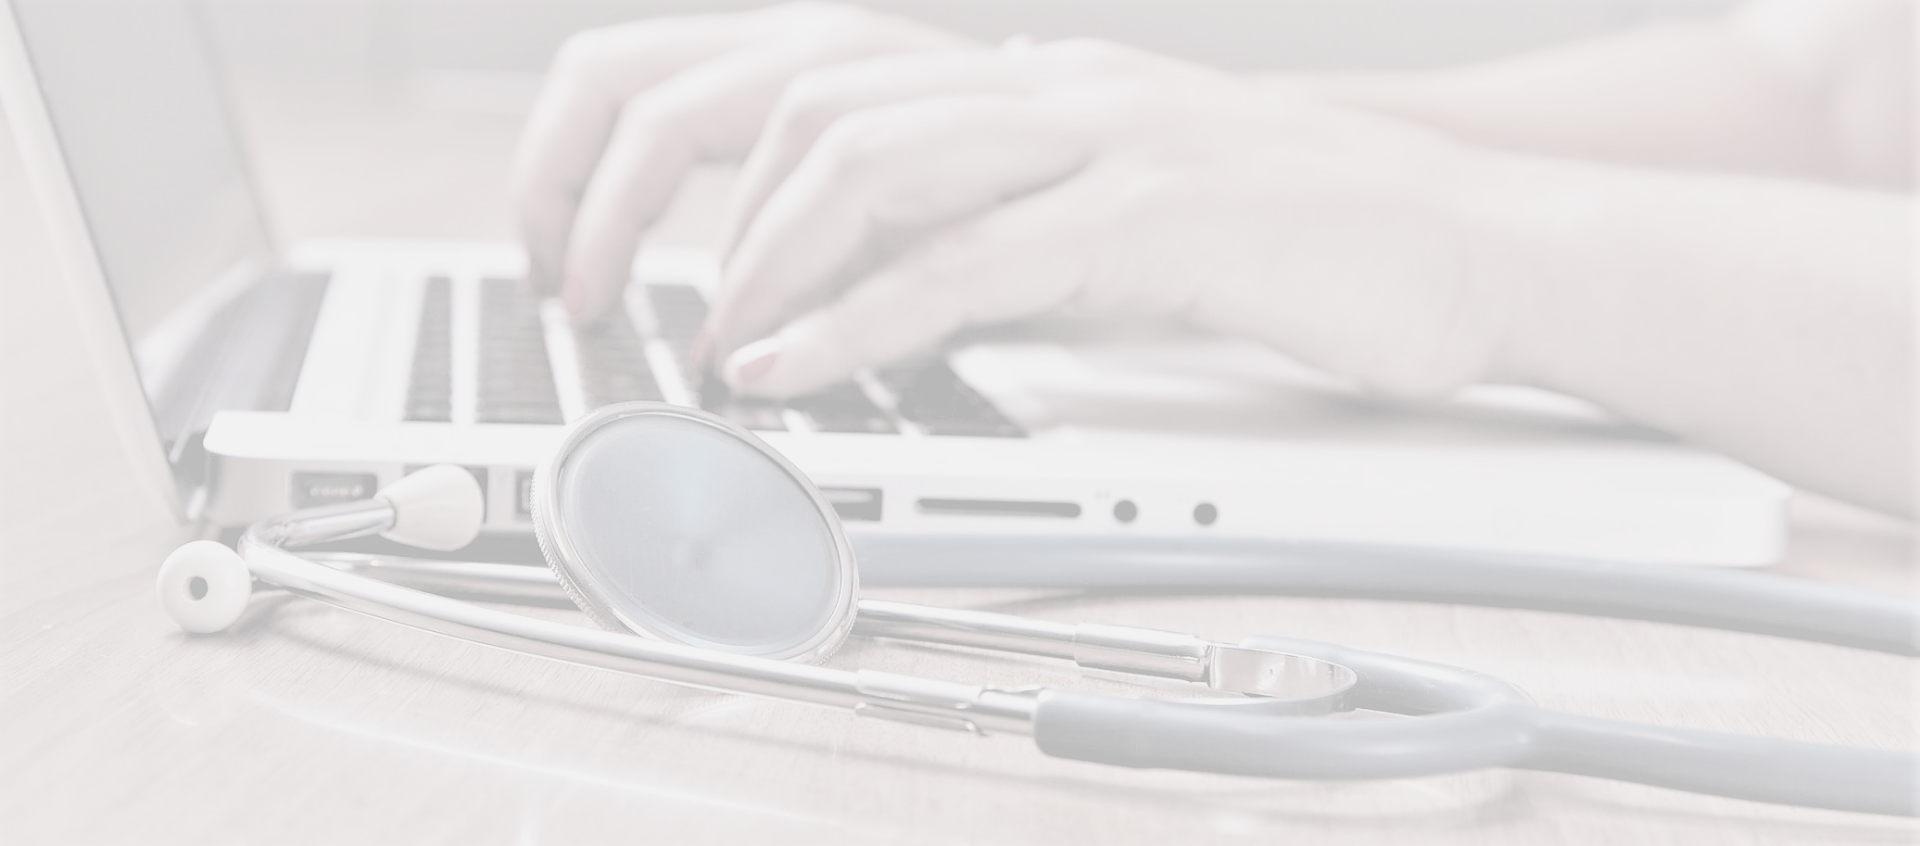
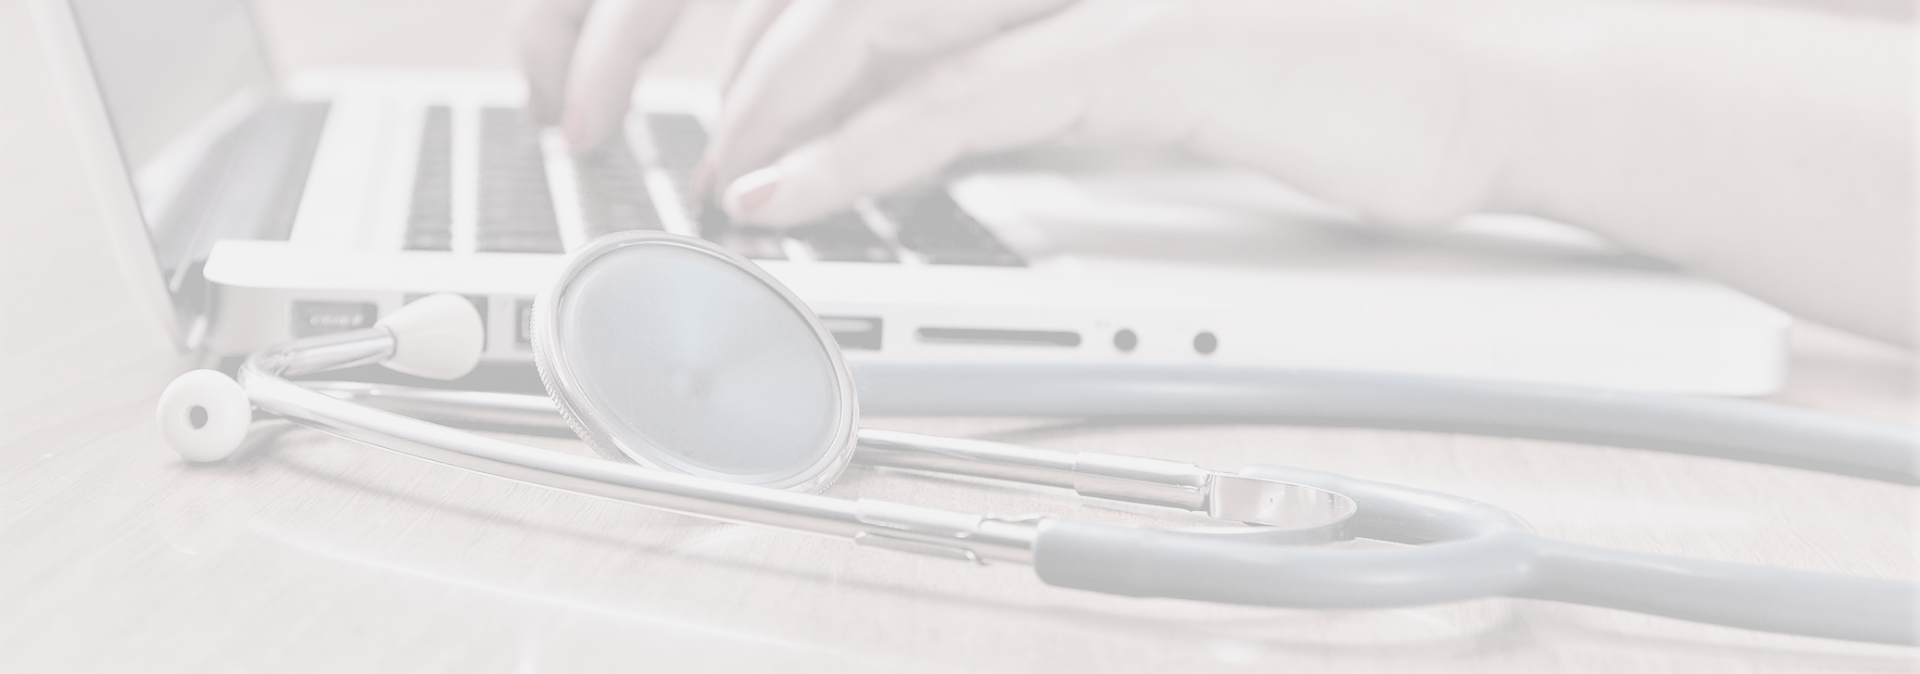
about page functioning

diff --git a/pages/about.html b/pages/about.html
@@ -24,12 +24,11 @@
   <!-- Modal -->
   <div class="modal fade" id="myModal" role="dialog">
     <div class="modal-dialog">
-
       <!-- Modal content-->
       <div class="modal-content">
         <div class="modal-header">
           <button type="button" class="close" data-dismiss="modal">&times;</button>
-          <h4 class="modal-title">Why Pacific Northwest X-Ray, Inc.?</h4>
+          <h4 class="modal-title">Why Pacific Northwest X-Ray, Inc?</h4>
         </div>
         <div class="modal-body">
           <p>X-Ray and Radiology? You are at the source! Here you will find hundreds
@@ -85,9 +84,123 @@
           <button type="button" class="btn btn-info btn-lg" data-toggle="modal" data-target="#myModal">Why Us</button>
         </div>
       </div>
-
     </section>
-    
+
+    <section id="about-content">
+      <br><br>
+      <h2>Services</h2><br><br>
+      <div class="icons container">
+        <div class="row">
+          <div class="col-sm-4">
+            <img src="../images/icon1.png" alt="Innovative Product" height="90" width="75">
+            <h5>Innovative Product</h5>
+            <p class="icon">We provide cutting-edge Name Brand product choices with complete and high quality product information.  Innovative product is updated daily as old technology becomes obsolete. </p>
+          </div><br><br>
+          <div class="col-sm-4">
+            <img src="../images/icon2.png" alt="Competitive Pricing" height="90" width="100">
+            <h5>Competitive Pricing</h5>
+            <p class="icon">We pass our bulk purchase savings onto you for the lowest market price on products. Our customers find that we offer a better value than their small local dealer can.</p>
+          </div><br><br>
+          <div class="col-sm-4">
+            <img src="../images/icon3.png" alt="Web Hosting & Security" height="90" width="85">
+            <h5>Web Hosting & Security</h5>
+            <p class="icon">We provide co-location and web serving for other businesses. All systems are secure and UPS power protected, by auto-starting and transferring generation systems </p>
+          </div>
+        </div>
+      </div>
+    <br><br><br>
+ 
+    <div class="more-info">
+      <blockquote class="blockquote">
+        <p class="mb-0">Wow, I'm really glad I finally found your site!</p><br>
+        <cite>-Satisfied Customer</cite>
+      </blockquote>
+    <br><br><br>
+  <div class="container">
+    <h2>Learn More</h2>
+    <p class="learnMore">Click below to explore and learn more information about our services at Pacific Northwest X-Ray, Inc. For more questions, please contact us from 8am-5pm(PST) Monday-Friday at <a href="tel:1-800-827-9729" class="nostyle about">1-800-827-9729</a>.</p><br>
+    <div class="panel-group" id="accordion">
+      <div class="panel panel-default">
+        <div class="panel-heading">
+          <h4 class="panel-title">
+            <a class="nostyle" data-toggle="collapse" data-parent="#accordion" href="#collapse1">Our Inventory</a>
+          </h4>
+        </div>
+        <div id="collapse1" class="panel-collapse collapse in">
+          <div class="panel-body">Most visitors have no idea just how large this site is. Simply put - it's hard to say from day to day, but we run around 900+ pages with over 6800 active stock numbers in our database server.Larger cleaner graphics, more detailed product specifications, those are the hallmarks of pnwx.com. We provide you with more Name Brand product choices with more complete product information. Our data entry staff are working from different parts of the country inputting the most up to date information that the manufacturers provide. When discrepancies are found, they are updated immediately by our data entry personnel. When customers call asking questions and/or requesting information that was not previously available and accessible on the website - we research the answers for that customer and add that information to the website right away! That way you are assured the most complete product information
+          available!
+        </div>
+        </div>
+      </div>
+      <div class="panel panel-default">
+        <div class="panel-heading">
+          <h4 class="panel-title">
+            <a class="nostyle" data-toggle="collapse" data-parent="#accordion" href="#collapse2">Web Site Hosting</a>
+          </h4>
+        </div>
+        <div id="collapse2" class="panel-collapse collapse">
+          <div class="panel-body">We are our own Internet Service Provider. We also provide co-location and web serving for other businesses both in and out of the Radiology Community. Our own servers sit on racks in our climate controlled network room right here in our head office in the East Portland Oregon Metro Area. All systems are UPS power protected, with the UPS systems backed up by auto-starting and transferring generation systems. This allows us to be 100% in control of our site and keep it up and running with excellence! It also keeps us from being limited to a certain sized site - or being forced to use web
+          authoring programs like Front Page, as so many other sites are hosted in the Radiology industry. If we need additional
+          server power or features, we just slide another server into our racks and it's ready to serve. Furthermore, we are not
+          forced to use a seriously overloaded server at some bulk hosting company that also hosts adult and other questionable
+          sites that are then filtered or blocked by a lot of ISP's to protect their customers from the objectional content.
+          Without all these problems, our sites remain fast, responsive and available to you, our customers, 24/7 for all your
+          needs, at any time that is the most convenient!<br>We can host your website on our servers. We specialize in radiology related websites. If you are a radiology
+          manufacturer, we can work with you to host your site free of charge in exchange for our being able to market your
+          products on our websites. Please contact our <a href="mailto:noc@pnwx.com" alt="noc@pnwx.com">Network Operations Center</a> for more information.
+        </div>
+        </div>
+      </div>
+      <div class="panel panel-default">
+        <div class="panel-heading">
+          <h4 class="panel-title">
+            <a class="nostyle" data-toggle="collapse" data-parent="#accordion" href="#collapse3">Pricing</a>
+          </h4>
+        </div>
+        <div id="collapse3" class="panel-collapse collapse">
+          <div class="panel-body">All products that we can price, are priced and posted on our website. If the product you are looking at does not show a
+          price, it means that manufacturer has asked us not to price it on the site. You will need to contact the sales
+          department for your price. Our pricing is kept in databases and is updated as soon as we receive information about any
+          changes from manufacturers. Please contact our <a href="mailto:Sales@pnwx.com" alt="Sales@pnwx.com">sales department</a> for questions on pricing.
+        </div>
+        </div>
+      </div>
+      <div class="panel panel-default">
+        <div class="panel-heading">
+          <h4 class="panel-title">
+            <a class="nostyle" data-toggle="collapse" data-parent="#accordion" href="#collapse4">Customer Quantity Disounts</a>
+          </h4>
+        </div>
+        <div id="collapse4" class="panel-collapse collapse">
+          <div class="panel-body">If you need large quantities of a product, pnwx.com can offer you some of the best quantity discounts. Again, because we
+          purchase much more than most local dealers, we are able to pass that savings on to you. With large quantities, these
+          savings can really add up! Contact our <a href="mailto:Sales@pnwx.com" alt="Sales@pnwx.com">sales department</a> for more information on quantity discounts that you may qualify
+          for. They are also available at 800-827-X-Ray.
+          </div>
+        </div>
+      </div>
+      <div class="panel panel-default">
+        <div class="panel-heading">
+          <h4 class="panel-title">
+            <a class="nostyle" data-toggle="collapse" data-parent="#accordion" href="#collapse5">Security</a>
+          </h4>
+        </div>
+        <div id="collapse5" class="panel-collapse collapse">
+          <div class="panel-body">Because we own and operate our own network, when you send e-mail or fill out forms on our site - they are secure! Your
+          personal information is not sitting around on some overloaded server at your local dealer's Internet Service Provider,
+          waiting on them to dial up and download it. We safeguard all sensitive information with the strongest encryption
+          available and make that information decryptable only by the employees who needs access to that infomation to process
+          your order!
+          </div>
+        </div>
+      </div>
+  </div>
+  </div>
+<br><br>
+
+
+    </div>
+    </section>
            
 
     <footer class="footer">
@@ -145,8 +258,7 @@
 
 <!-- Optional JavaScript -->
 <!-- jQuery first, then Popper.js, then Bootstrap JS -->
-    <script src="https://code.jquery.com/jquery-3.3.1.slim.min.js"
-      integrity="sha384-q8i/X+965DzO0rT7abK41JStQIAqVgRVzpbzo5smXKp4YfRvH+8abtTE1Pi6jizo" crossorigin="anonymous"></script>
+    <script src="https://ajax.googleapis.com/ajax/libs/jquery/3.1.1/jquery.min.js"></script> -->
     <script src="https://cdnjs.cloudflare.com/ajax/libs/popper.js/1.14.6/umd/popper.min.js"
       integrity="sha384-wHAiFfRlMFy6i5SRaxvfOCifBUQy1xHdJ/yoi7FRNXMRBu5WHdZYu1hA6ZOblgut" crossorigin="anonymous"></script>
     <script src="https://stackpath.bootstrapcdn.com/bootstrap/4.2.1/js/bootstrap.min.js"

diff --git a/style.css b/style.css
@@ -152,61 +152,129 @@ table {
 
 /* pages styling */
 .home-pages {
-    height: 60vh;
+    height: 50vh;
     background-image: url(images/jumbopages.png);
     background-position: center top;
     background-size:cover;
+    border-bottom: 1px solid lightgrey;
 }
 
 section.home-pages div.title {
   position: absolute;  
-  color: white;
+  color: rgb(56, 56, 56);
   font-weight: bold;
-  top: 25%;
+  top: 20%;
   text-align: center;
   width: 100%;
   padding: 0;
 }
 
 div.title h1 {
-  font-size: 5rem;
+  font-size: 6rem;
   text-shadow: 2px 2px #5eafcc;
 }
 
 div.title button {
-  box-shadow: 1px 1px 1px darkgrey;
-  color: #36aed8;
+  box-shadow: 1px 1px 1px #36aed8;
+  border: white;
+  color: rgb(56, 56, 56);
+  padding-top: 4px;
+  padding-bottom: 4px;
+  padding-right: 10px;
+  padding-left: 10px;
+
 }
 
 div.title button:hover {
   color: #36aed8;
   background-color: white;
+  box-shadow: 3px 3px 3px #36aed8;
 }
 
 
-
-
-/* window styling */
-
-div#aboutWindow {
-  background-color: teal;
-
-}
-
-div.hiddenWindow{
-  display: none;
-}
-
-div.showWindow {
-  position: absolute;
-  background-color: black;
-  color: white;
-  overflow: hidden;
-}
-
-.modal-title {
+/* about section */
+#about-content {
   text-align: center;
 }
+
+div.icons {
+  width: 65%;
+}
+
+#about-content h2 {
+  font-size: 2.5em;
+}
+
+#about-content img {
+  margin-bottom: 20px;
+}
+
+#about-content div.col-sm-4 {
+  font-size: .8em;
+}
+
+#about-content p.icon {
+display:inline-block;
+}
+
+div#accordion {
+  margin-left: auto;
+  margin-right: auto;
+  font-size: .6em;
+  width: 40vw;
+} 
+
+p.learnMore {
+  width: 50vw;
+  margin-left: auto;
+  margin-right: auto;
+  font-size: 1.2em;
+}
+
+div.panel-body {
+  font-size: 1.6em;
+}
+
+div.panel-default {
+  text-align: left;
+}
+
+#about-content a.nostyle {
+  color: #36aed8;
+}
+
+div.panel-heading {
+  background-color: aliceblue;
+  border: 1px solid lightgrey;
+  padding: 10px;
+  padding-top: 15px;
+}
+
+/* blockquote styling */
+blockquote {
+  background: #f9f9f9;
+  border-left: 10px solid #36aed8;
+  margin: 1.5em 10px;
+  padding: 0.5em 10px;
+  quotes: "\201C""\201D""\2018""\2019";
+  width: 40vw;
+  margin-left: auto;
+  margin-right: auto;
+}
+blockquote:before {
+  color: #36add848;
+  content: open-quote;
+  font-size: 4em;
+  line-height: 0.1em;
+  margin-right: 0.25em;
+  vertical-align: -0.4em;
+}
+blockquote p {
+  display: inline;
+}
+
+
+
 
 
 
@@ -255,4 +323,20 @@ div.showWindow {
 
   footer {
     background-color: black;
-  }}
+  }
+
+div#accordion {
+  margin-left: auto;
+  margin-right: auto;
+  font-size: .4em;
+  width: 90vw;
+} 
+
+p.learnMore {
+  font-size: 1em;
+}
+
+div.panel-body {
+  font-size: 2em;
+}
+}
